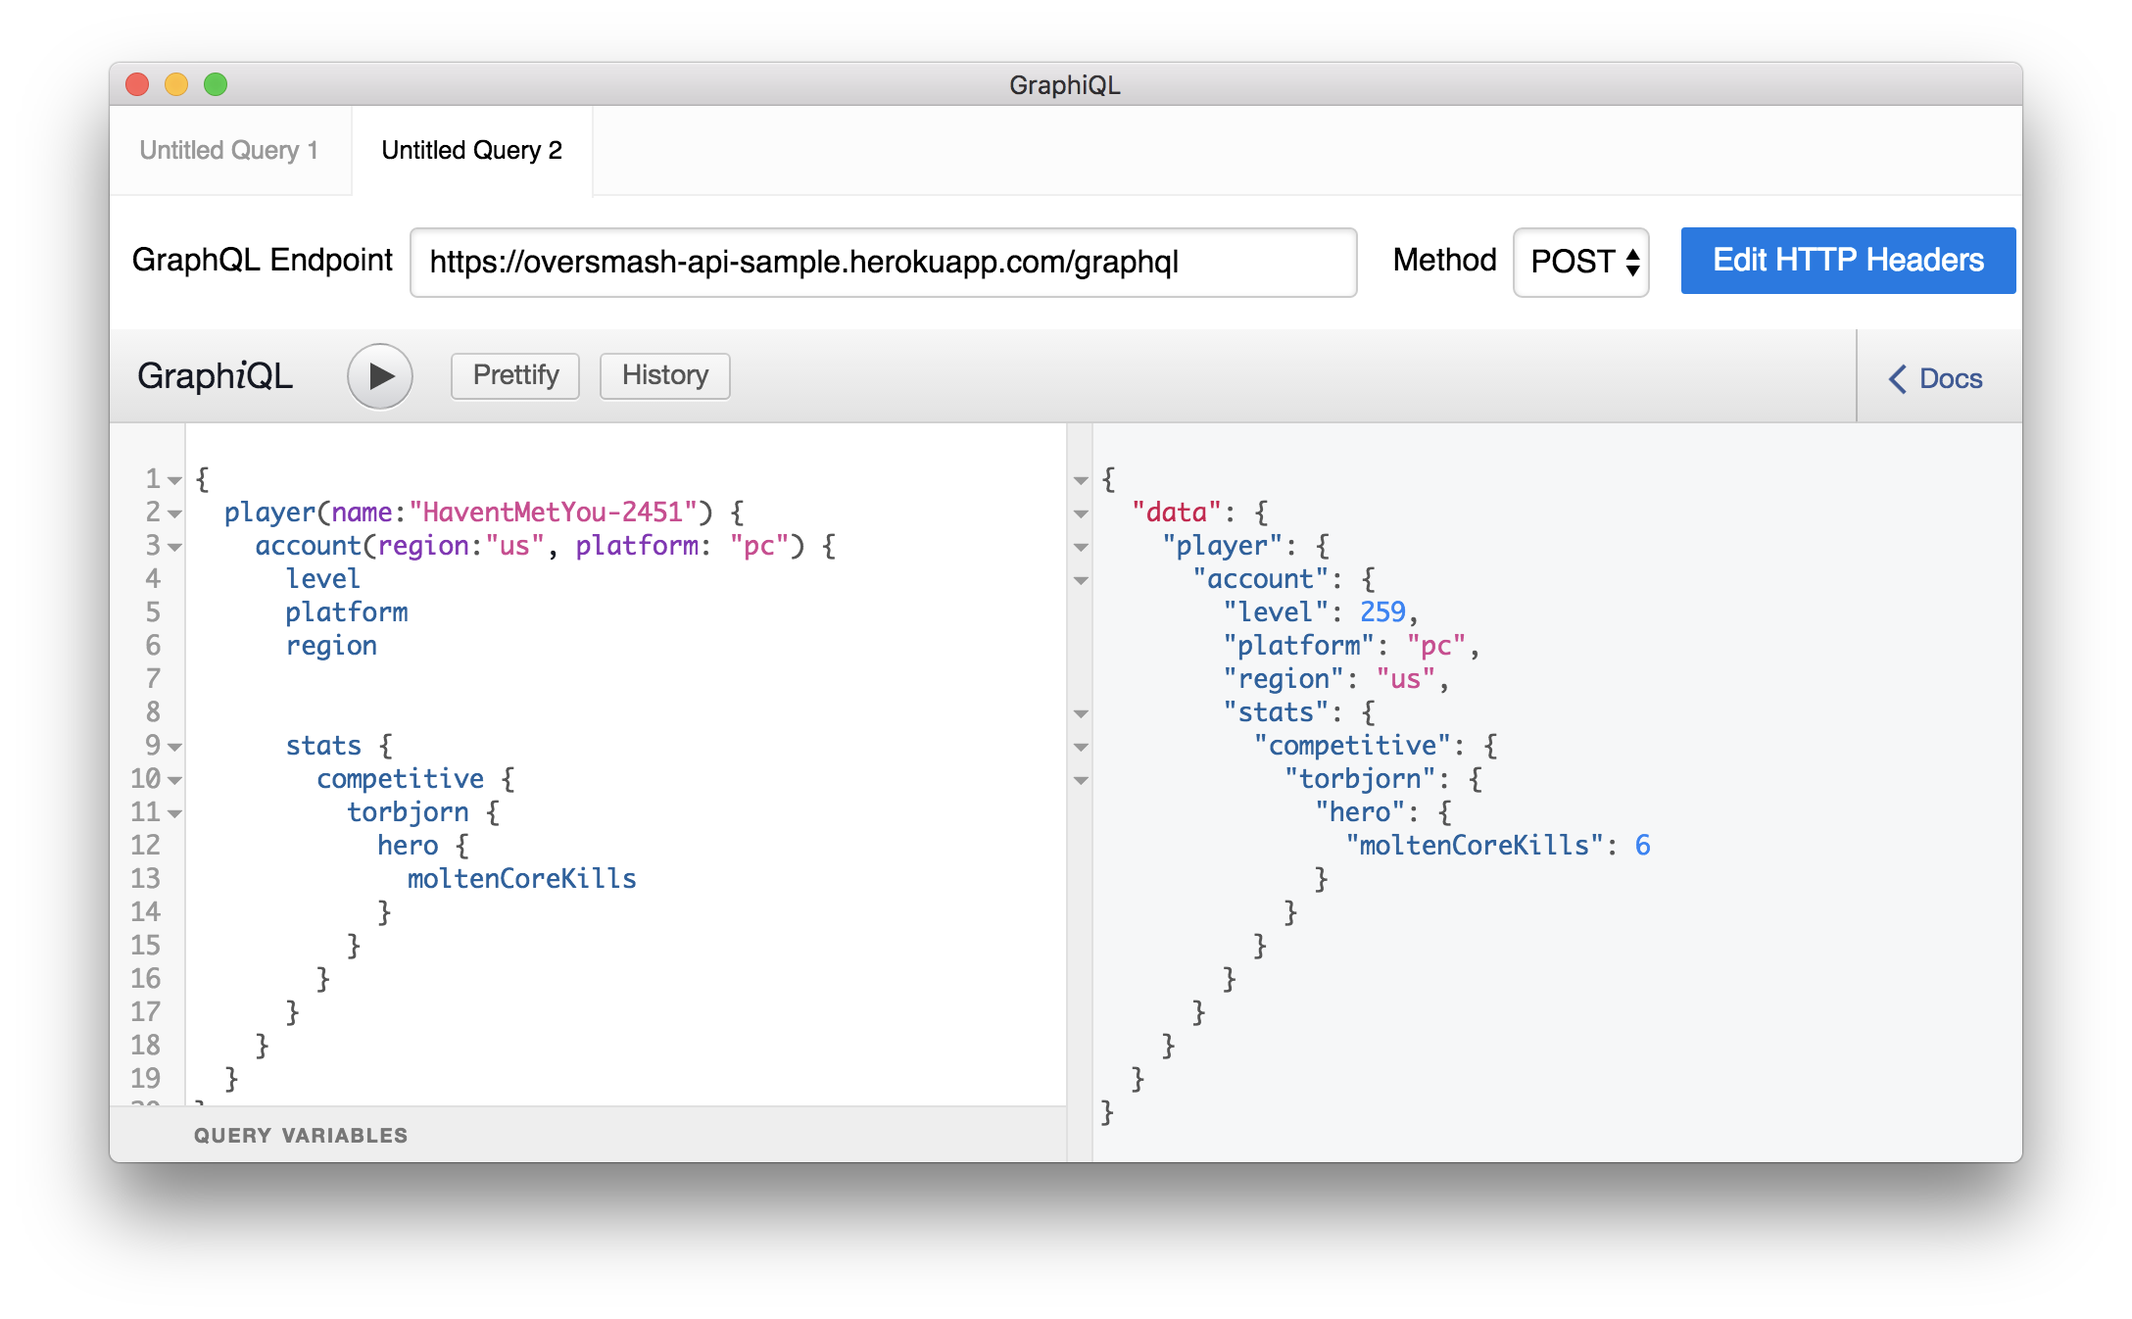
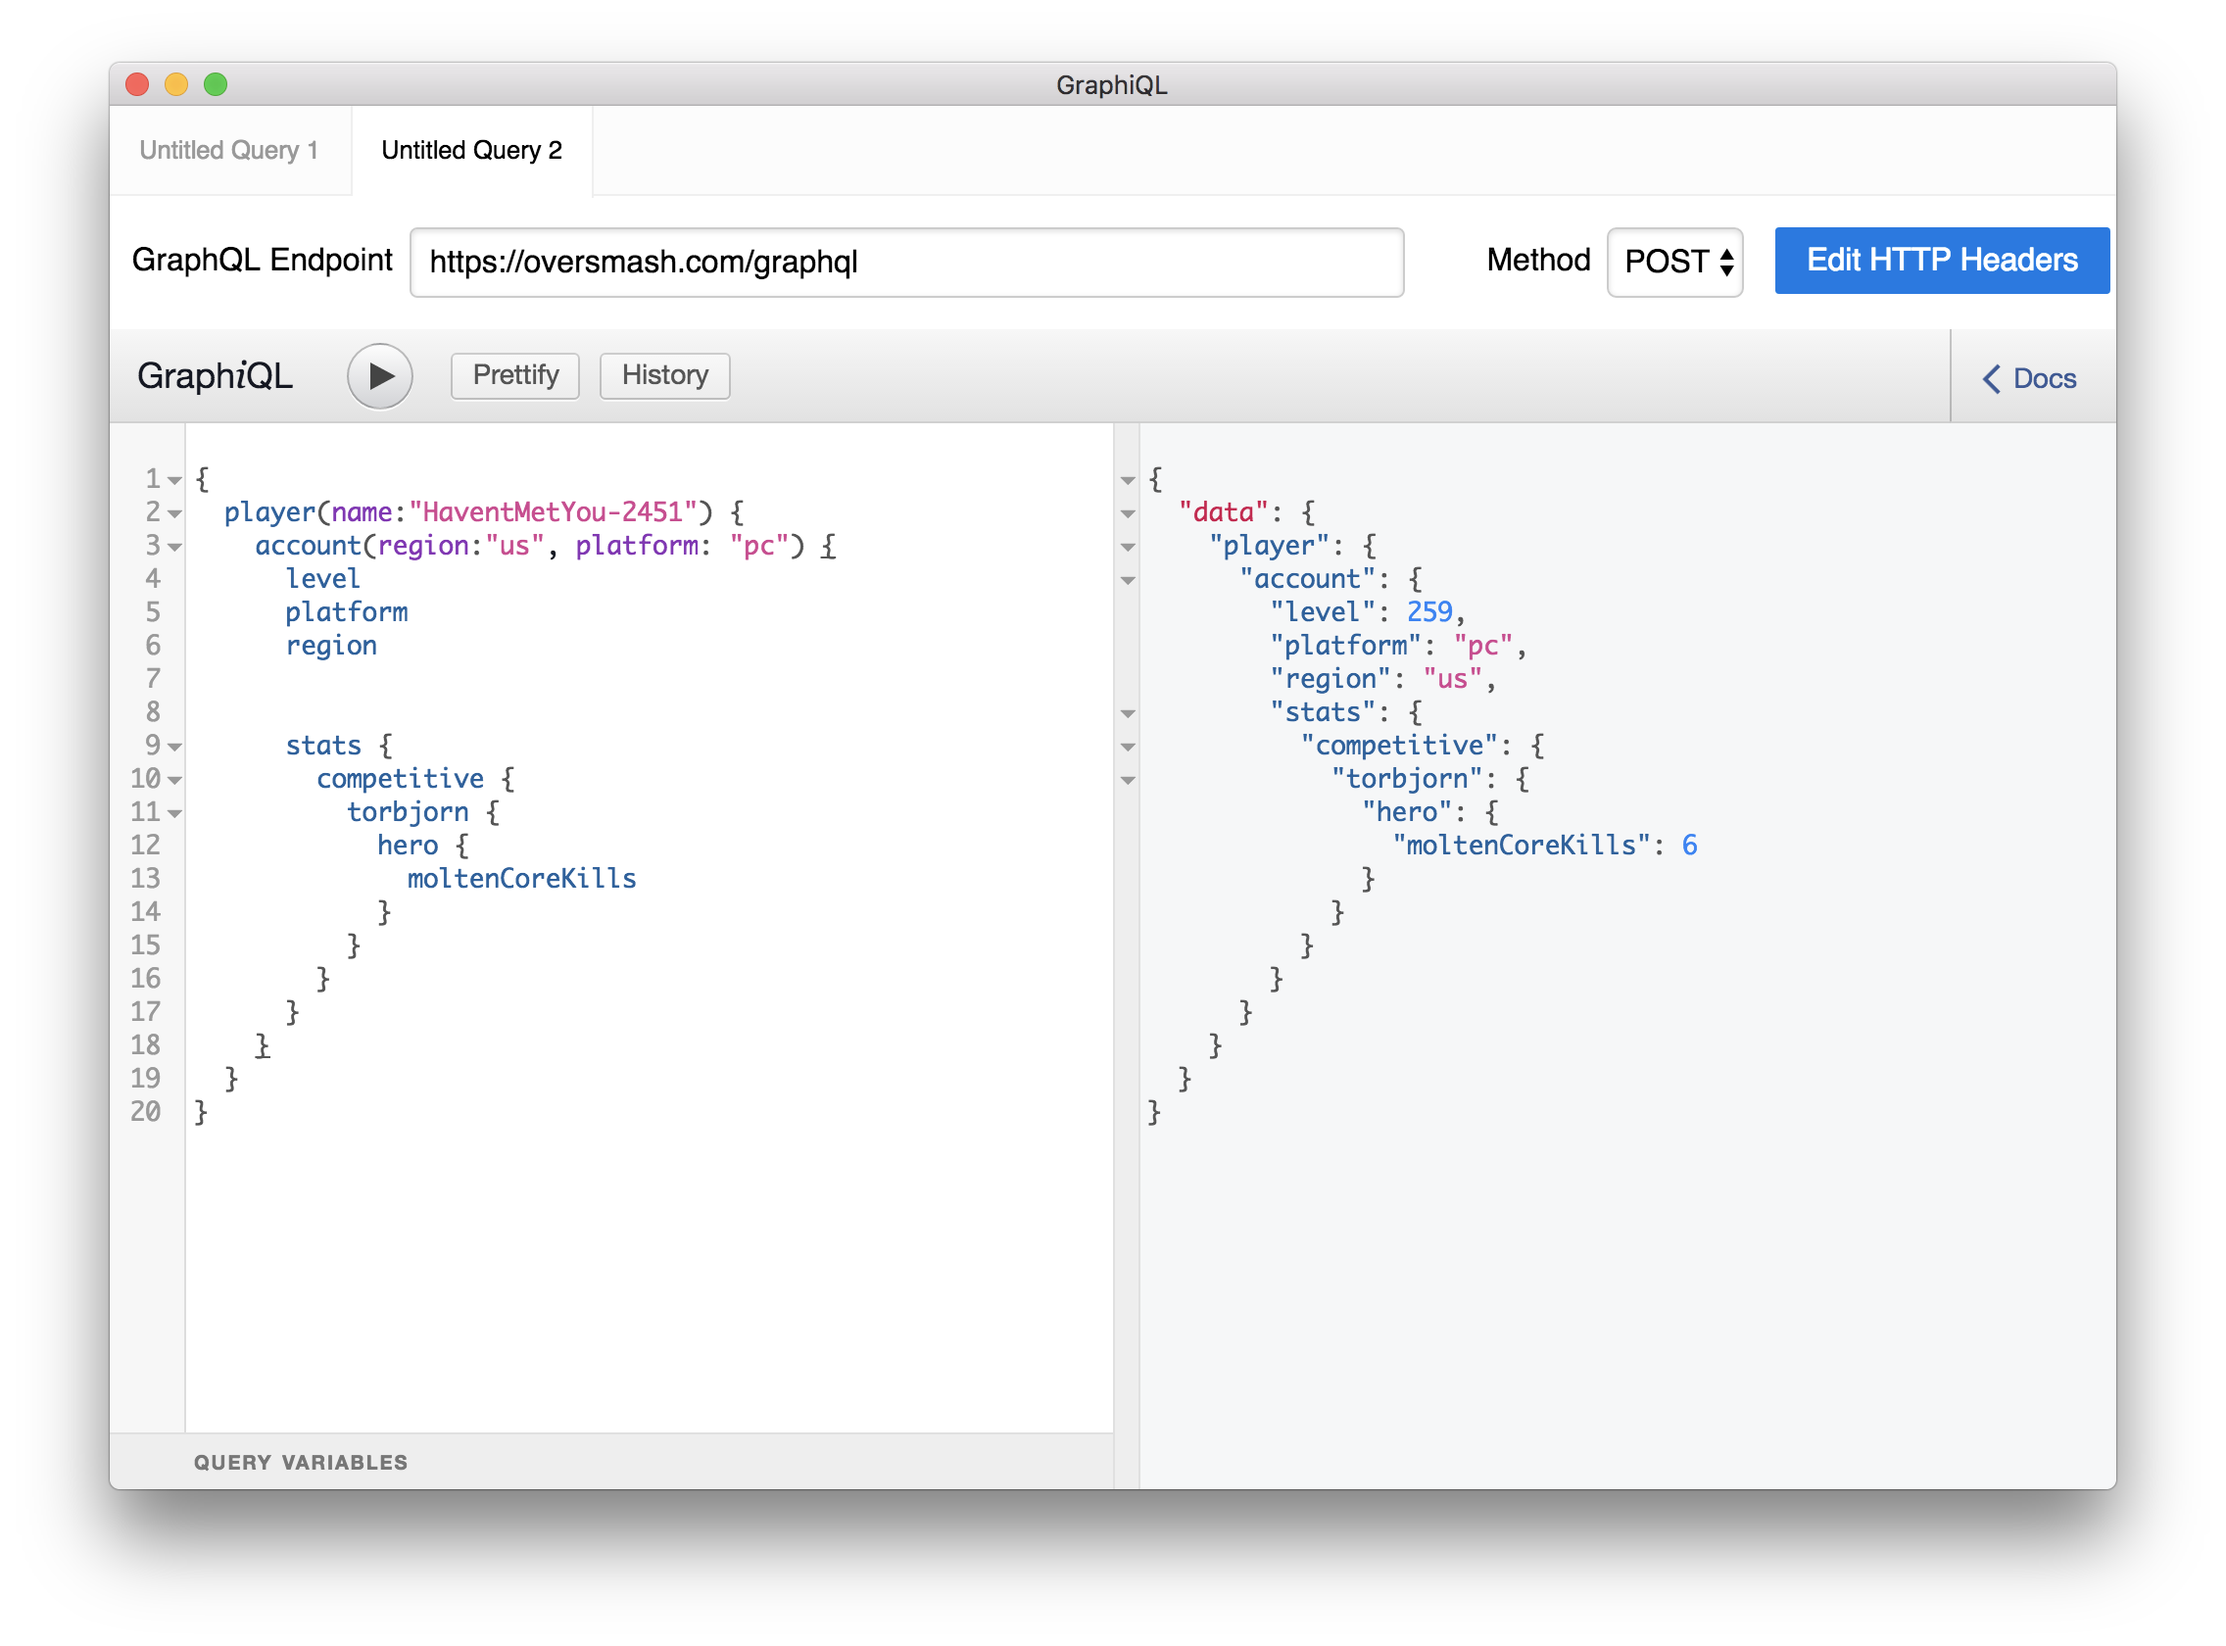
Update README with full domain

diff --git a/README.md b/README.md
@@ -15,9 +15,9 @@ Features:
 - Detailed request and operation logging
 - Backed by [oversmash](https://github.com/filp/oversmash), including automated efficient scraping of all hero stats
 
-### Sample application
+### Reference deployment
 
-An oversmash-api sample application is available at https://oversmash-api-sample.herokuapp.com
+An oversmash-api reference deployment is available at https://oversmash.com
 
 You can query it, for example, using [graphiql-app](https://github.com/skevy/graphiql-app):
 
